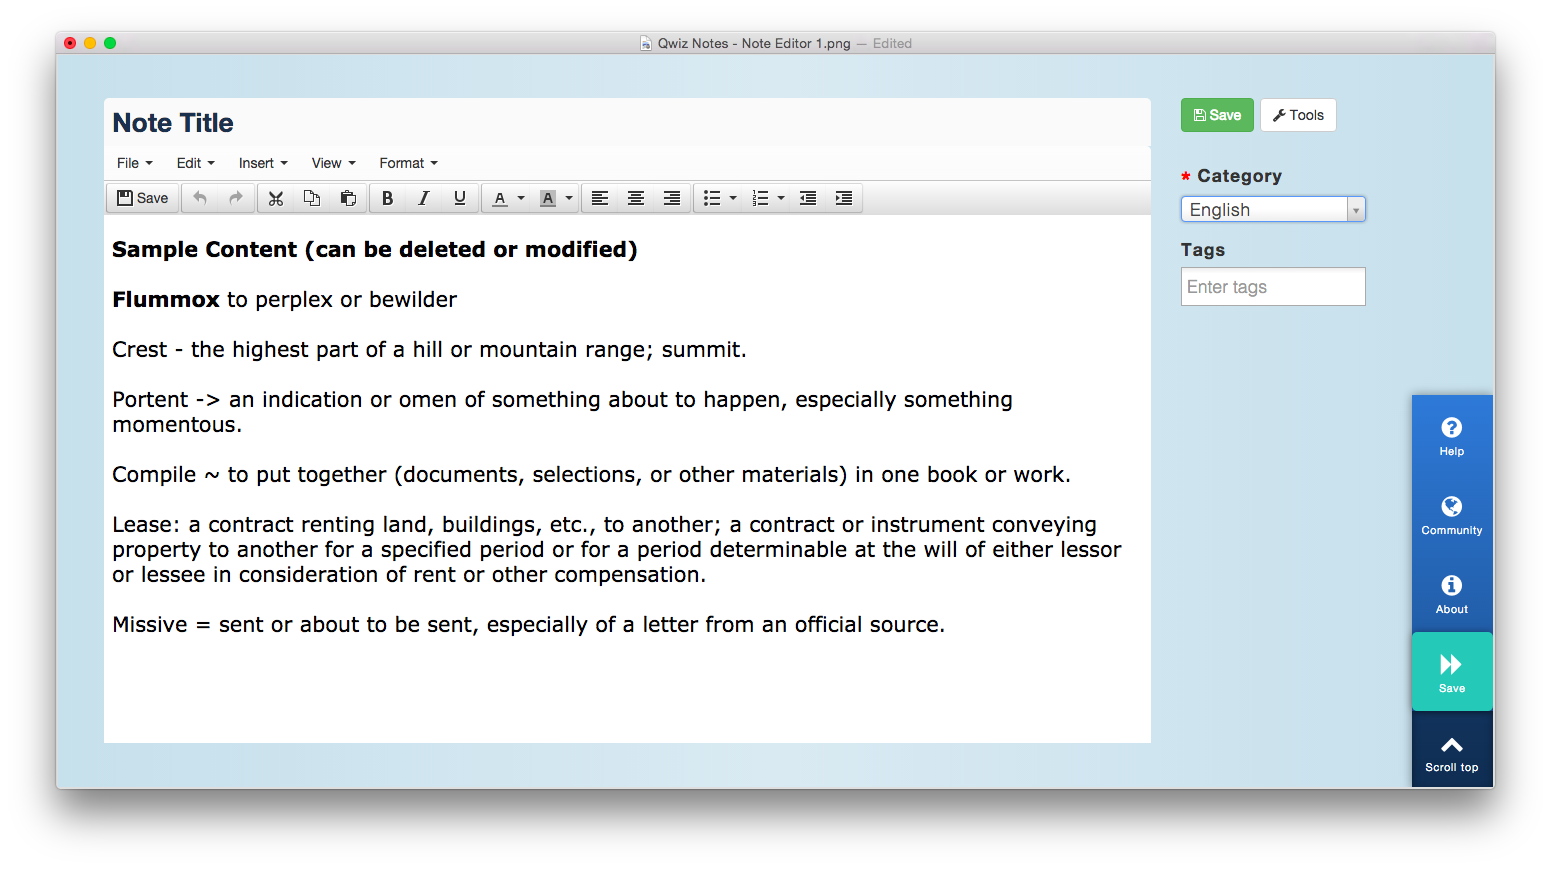
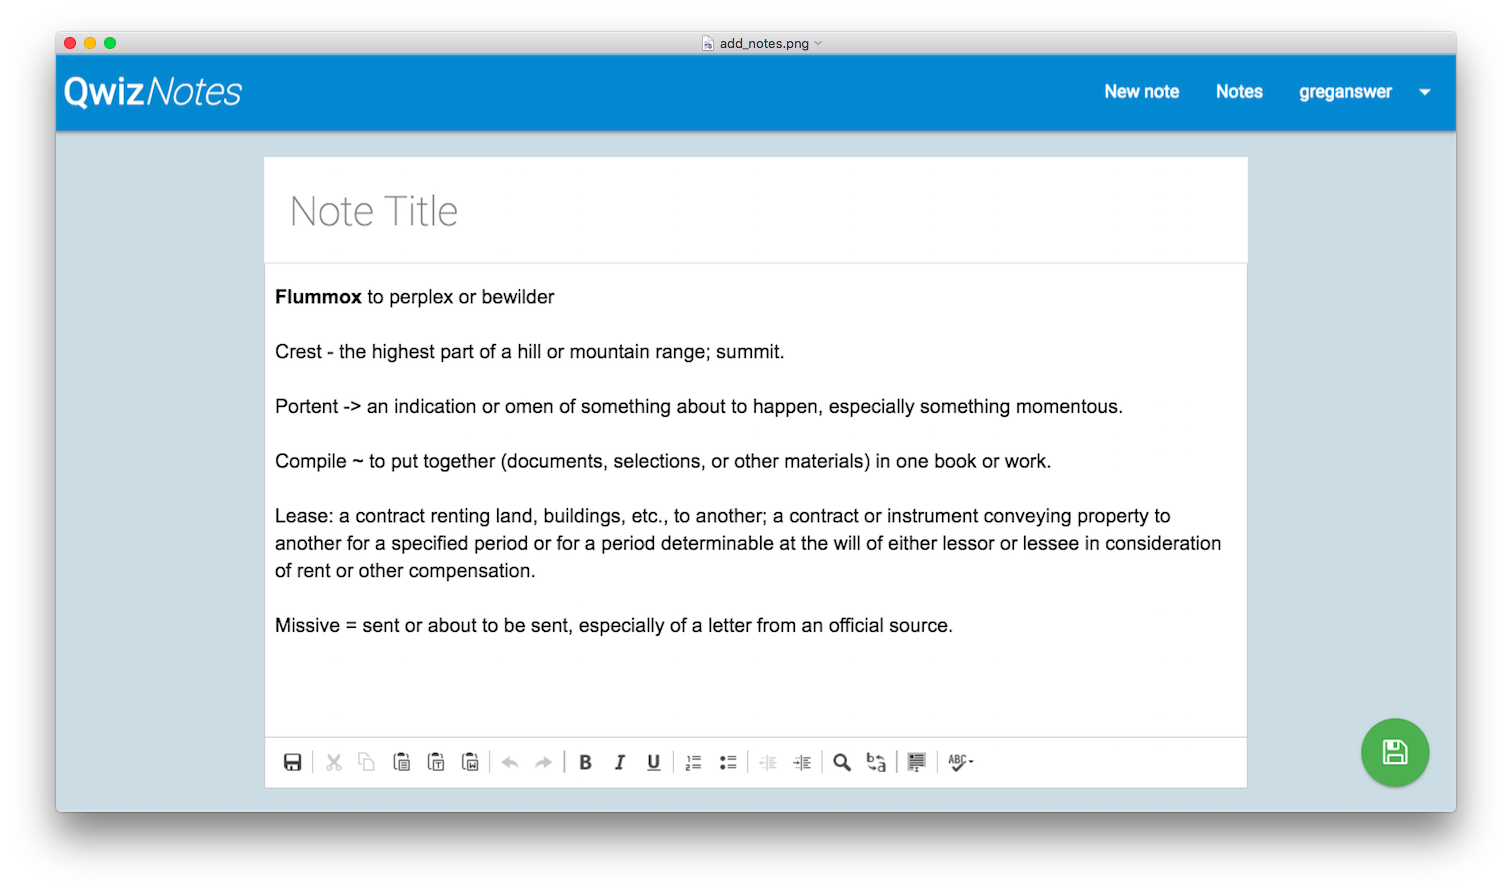
improve images and add mobile images

diff --git a/config/initializers/assets.rb b/config/initializers/assets.rb
@@ -10,4 +10,4 @@ Rails.application.config.assets.version = '1.0'
 # application.js, application.css, and all non-JS/CSS in app/assets folder are already added.
 # Rails.application.config.assets.precompile += %w( search.js )
 
-Rails.application.config.assets.precompile += %w( ckeditor/* )
+# Rails.application.config.assets.precompile += %w( ckeditor/* )
